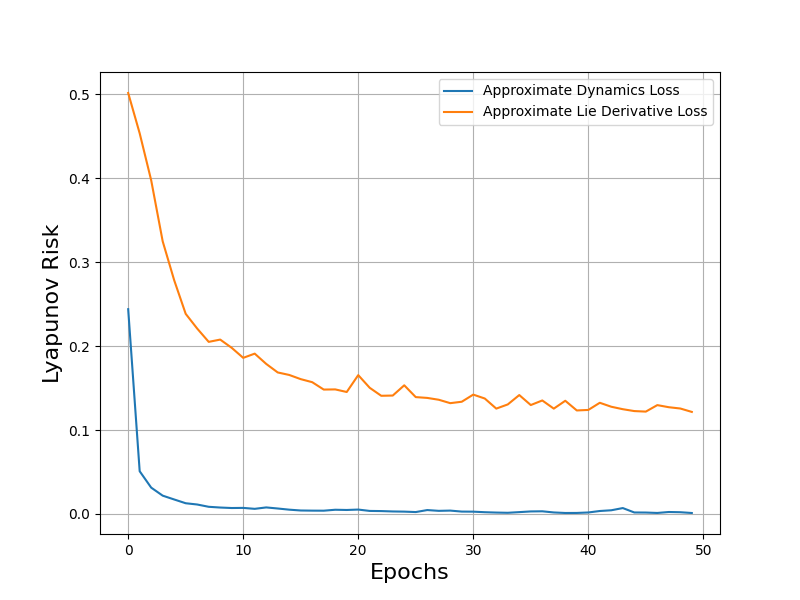
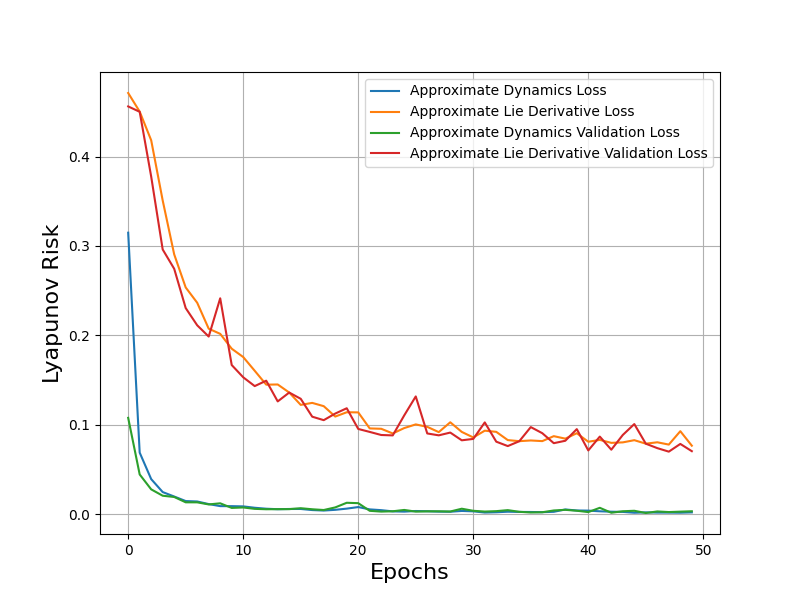
added validation code and initial falsification class

diff --git a/train_model.py b/train_model.py
@@ -4,18 +4,22 @@ from model import NeuralLyapunovController
 from loss import LyapunovRisk
 from matplotlib import pyplot as plt
 from lyapunov_dataset import LyapunovDataset
-from torch.utils.data import DataLoader
+from torch.utils.data import DataLoader, random_split
 from tqdm import tqdm, trange
+from falsifier import Falsifier
+from kstar_env import KSTAREnv
 
 class Trainer():
     def __init__(self, model, lr, optimizer, loss_fn, loss_mode,
-                 seed=42):
+                 falsifier=None, seed=42):
         self.model = model
         self.lr = lr
         self.optimizer = optimizer
         self.lyapunov_loss = loss_fn
         self.loss_mode = loss_mode
         self.seed = seed
+        # falsifier optional
+        self.falsifier = falsifier
 
     def get_lie_derivative(self, X, V_candidate, f):
         '''
@@ -43,22 +47,43 @@ class Trainer():
         lie_derivative = torch.diagonal((d_x @ f.t()), 0)
         return lie_derivative
     
-    def get_approx_lie_derivative(self, V_candidate, V_candidate_next, dt=0.1):
+    @staticmethod
+    def get_approx_lie_derivative(V_candidate, V_candidate_next, dt=0.1):
         '''
         Calculates L_V = ∑∂V/∂xᵢ*fᵢ by forward finite difference
                     L_V = (V' - V) / dt
         '''
         return (V_candidate_next - V_candidate) / dt
 
-    def get_dataloader(self, dataset, batch_size):
-        train_loader = DataLoader(dataset, batch_size=batch_size,
+    @staticmethod
+    def approx_f_value(X, X_prime, dt=0.1):
+        # Approximate f value with S, a, S'
+        y = (X_prime - X) / dt
+        return y
+
+    def get_dataloader(self, dataset, batch_size, val_split=0.2):
+        num_trajectories = len(dataset)
+        num_validation = int(num_trajectories * val_split)
+        num_train = num_trajectories - num_validation
+
+        # random split of train and validation data based off seed.
+        train_data, validation_data = random_split(dataset, [num_train, num_validation],
+                                                generator=torch.Generator().manual_seed(self.seed))
+        
+        train_loader = DataLoader(train_data, batch_size=min(num_train, batch_size),
                                 shuffle=True, generator=torch.Generator().manual_seed(self.seed))
-        return train_loader
+        validation_loader = DataLoader(validation_data, batch_size=min(num_train, batch_size),
+                                shuffle=True, generator=torch.Generator().manual_seed(self.seed))
+        return train_loader, validation_loader
     
-    def _train(self, train_loader, x_0):
+    def _train(self, train_loader, x_0, epoch=0):
         self.model.train()
         total_loss = 0.
         count = 0.
+        valid_solution = False
+        # condition for running falsifier
+        run_falsifier = (self.falsifier is not None) and epoch % (self.falsifier.get_frequency()) == 0
+
         t_loader = tqdm(enumerate(train_loader), desc='train', total=len(train_loader), leave=False)
         for batch_idx, data in t_loader:
             x, pi, x_prime = data
@@ -74,61 +99,107 @@ class Trainer():
             # get loss
             if self.loss_mode == 'approx_dynamics':
                 # compute approximate f_dot and compare to true f
-                f_approx = approx_f_value(x, x_prime, dt=0.1)
-                L_V_approx = self.get_lie_derivative(x, V_candidate, f_approx)
-                loss = self.lyapunov_loss(V_candidate, L_V_approx, V_X0)
+                f_approx = Trainer.approx_f_value(x, x_prime, dt=0.1)
+                L_V = self.get_lie_derivative(x, V_candidate, f_approx)
 
             elif self.loss_mode == 'approx_lie':
                 # compute approximate f_dot and compare to true f
                 V_candidate_prime, u_prime = self.model(x_prime)
-                L_V_approx = self.get_approx_lie_derivative(V_candidate, V_candidate_prime, dt=0.1)
-                loss = self.lyapunov_loss(V_candidate, L_V_approx, V_X0)
+                L_V= Trainer.get_approx_lie_derivative(V_candidate, V_candidate_prime, dt=0.1)
+            
+            loss = self.lyapunov_loss(V_candidate, L_V, V_X0)
 
             loss.backward()
             self.optimizer.step()
             total_loss += loss.item()
             count += 1
             t_loader.set_postfix(loss=loss.item())
+
+            #### Falsifier ####
+            if run_falsifier:
+                counterexamples = self.falsifier.check_lyapunov(x, V_candidate, L_V)
+                if (not (counterexamples is None)): 
+                    pass
+                    # TODO: add to train_loader
+                    # x = self.falsifier.add_counterexamples(x, counterexamples)
+                else:
+                    valid_solution = True
+                    break
+
         # return avg loss over all runs
+        return total_loss / count, valid_solution
+
+    def _val(self, val_loader, x_0):
+        self.model.eval()
+        total_loss = 0.
+        count = 0.
+        v_loader = tqdm(enumerate(val_loader), desc='val', total=len(val_loader), leave=False)
+        for batch_idx, data in v_loader:
+            x, pi, x_prime = data
+            # get lyapunov function and input from model
+            V_candidate, u = self.model(x)
+            # get lyapunov function evaluated at equilibrium point
+            V_X0, u_X0 = self.model(x_0)
+
+            # get loss
+            if self.loss_mode == 'approx_dynamics':
+                # compute approximate f_dot and compare to true f
+                f_approx = Trainer.approx_f_value(x, x_prime, dt=0.1)
+                L_V = self.get_lie_derivative(x, V_candidate, f_approx)
+
+            elif self.loss_mode == 'approx_lie':
+                # compute approximate f_dot and compare to true f
+                V_candidate_prime, u_prime = self.model(x_prime)
+                L_V = Trainer.get_approx_lie_derivative(V_candidate, V_candidate_prime, dt=0.1)
+            
+            loss = self.lyapunov_loss(V_candidate, L_V, V_X0)
+            total_loss += loss.item()
+            count += 1
+            v_loader.set_postfix(loss=loss.item())
+
+        # return avg validation loss over all runs
         return total_loss / count
-    
-    def train(self, dataset, x_0, epochs=2000, batch_size=64, verbose=False, every_n_epochs=10):
-        valid = False
+
+    def train(self, dataset, x_0, epochs=2000, batch_size=64):
         loss_list = []
-        train_loader = self.get_dataloader(dataset, batch_size=batch_size)
+        val_loss_list = []
+        train_loader, val_loader = self.get_dataloader(dataset, batch_size=batch_size, val_split=0.2)
         pbar = trange(epochs, desc='progress')
         for epoch in pbar:
-            if valid == True:
-                # TODO Update valid once falsifier is used
-                if verbose:
-                    print('Found valid solution.')
+            loss, valid_solution = self._train(train_loader, x_0, epoch=epoch)
+            val_loss = self._val(val_loader, x_0)
+
+            if valid_solution:
+                print("Valid solution found!")
                 break
-            loss = self._train(train_loader, x_0)
 
             loss_list.append(loss)
-            if verbose and (epoch+1 % every_n_epochs == 0):
-                print('Epoch:\t{}\tLyapunov Risk: {:.4f}'.format(epoch+1, loss))
-
-            # TODO Add in falsifier here
-            # add counterexamples
-            metrics = {'loss' : loss}
+            val_loss_list.append(val_loss)
+            
+            #### Adding metrics to tqdm bar ####
+            if self.falsifier is None:
+                metrics = {'loss' : loss, 'val_loss' : val_loss}
+            else:
+                metrics = {'loss' : loss, 'val_loss' : val_loss,
+                           'total_counterexamples' : self.falsifier.counterexamples_added}
             pbar.set_postfix(metrics)
-        return loss_list
+
+        return loss_list, val_loss_list
     
 def load_model(d_in=39, n_hidden=16, d_out=9):
     controller = NeuralLyapunovController(d_in, n_hidden, d_out)
     return controller
 
-def approx_f_value(X, X_prime, dt=0.1):
-    # Approximate f value with S, a, S'
-    y = (X_prime - X) / dt
-    return y
-
-def plot_losses(approx_dynamics_loss, approx_lie_loss):
+def plot_losses(approx_dynamics_loss, approx_val_dynamics_loss,
+                approx_lie_loss, approx_val_lie_loss):
     fig = plt.figure(figsize=(8, 6))
-    x = range(len(approx_dynamics_loss))
-    plt.plot(x, approx_dynamics_loss, label='Approximate Dynamics Loss')
-    plt.plot(x, approx_lie_loss, label='Approximate Lie Derivative Loss')
+    x_d = range(len(approx_dynamics_loss))
+    x_l = range(len(approx_lie_loss))
+    plt.plot(x_d, approx_dynamics_loss, label='Approximate Dynamics Loss')
+    plt.plot(x_l, approx_lie_loss, label='Approximate Lie Derivative Loss')
+
+    plt.plot(x_d, approx_val_dynamics_loss, label='Approximate Dynamics Validation Loss')
+    plt.plot(x_l, approx_val_lie_loss, label='Approximate Lie Derivative Validation Loss')
 
     plt.ylabel('Lyapunov Risk', size=16)
     plt.xlabel('Epochs', size=16)
@@ -137,6 +208,7 @@ def plot_losses(approx_dynamics_loss, approx_lie_loss):
     plt.savefig('loss_comparison.png')
     
 if __name__ == '__main__':
+    run_falsifier = False
     lr = 0.01
     batch_size=500
     epochs=50
@@ -144,7 +216,14 @@ if __name__ == '__main__':
 
     state_dim = 39
     action_dim = 9
-    
+
+    ### Load falsifier and KSTAR environment
+    if run_falsifier:
+        env = KSTAREnv()
+        falsifier = Falsifier(env.low_state, env.high_state, epsilon=0., scale=0.05,
+                            frequency=150, num_samples=2, env=env)
+    else:
+        falsifier = None
     ### Load training data ###
     print('Loading dataset...')
     lyapunov_dataset = LyapunovDataset(filename='trajectories.npz', 
@@ -158,17 +237,19 @@ if __name__ == '__main__':
 
     model_1 = load_model(d_in, n_hidden, d_out)
     optimizer_1 = torch.optim.Adam(model_1.parameters(), lr=lr)
-    trainer_1 = Trainer(model_1, lr, optimizer_1, loss_fn, loss_mode='approx_dynamics')
+    trainer_1 = Trainer(model_1, lr, optimizer_1, loss_fn, loss_mode='approx_dynamics', falsifier=falsifier)
     # calculate lie derivative when system dynamics are unknown (this model compares the approximate f to the ground truth)
-    approx_dynamics_loss = trainer_1.train(lyapunov_dataset, X_0, epochs=epochs,
-                                           batch_size=batch_size, verbose=True)
+    approx_dynamics_loss, approx_val_dynamics_loss = trainer_1.train(lyapunov_dataset, X_0, 
+                                                                     epochs=epochs, batch_size=batch_size)
 
     print("Training with approx lie derivative loss...")
     model_2 = load_model()
     optimizer_2 = torch.optim.Adam(model_2.parameters(), lr=lr)
-    trainer_2 = Trainer(model_2, lr, optimizer_2, loss_fn, loss_mode='approx_lie')
+    trainer_2 = Trainer(model_2, lr, optimizer_2, loss_fn, loss_mode='approx_lie', falsifier=falsifier)
     # calculate lie derivative when system dynamics are unknown (this model compares the approximate f to the ground truth)
-    approx_lie_loss = trainer_2.train(lyapunov_dataset, X_0, epochs=epochs,
-                                      batch_size=batch_size, verbose=True)
+    approx_lie_loss, approx_val_lie_loss = trainer_2.train(lyapunov_dataset, X_0,
+                                                           epochs=epochs, batch_size=batch_size)
     
-    plot_losses(approx_dynamics_loss, approx_lie_loss)
+    plot_losses(approx_dynamics_loss, approx_val_dynamics_loss,
+                approx_lie_loss, approx_val_lie_loss)
+                

diff --git a/falsifier.py b/falsifier.py
@@ -1,0 +1,91 @@
+import torch
+
+class Falsifier():
+    def __init__(self, lower_bound, upper_bound, epsilon=0., scale=0.1, frequency=100, num_samples=10, env=None):
+        self.epsilon = epsilon
+        self.counterexamples_added = 0
+        self.lower_bound = torch.Tensor(lower_bound)
+        self.upper_bound = torch.Tensor(upper_bound)
+        self.scale = scale
+        self.frequency = frequency
+        self.num_samples = num_samples
+        # AI Gym environment. Used to get min and max state values and optionally get next_state
+        self.env = env
+
+
+    def get_frequency(self):
+        return self.frequency
+
+    @torch.no_grad
+    def check_lyapunov(self, X, V_candidate, L_V):    
+        '''
+        Checks if the lyapunov conditions are violated for any sample. 
+        Data points that are unsatisfiable will be sampled and added 
+        '''
+        N = X.shape[0]
+
+        # Ensure lyapunov function and lie derivative are 1D tensors
+        if V_candidate.dim() != 1:
+            V_candidate = V_candidate.reshape(N)
+        if L_V.dim() != 1:
+            L_V = L_V.reshape(N)
+        
+        lyapunov_mask = (V_candidate < 0.)
+        lie_mask = (L_V > self.epsilon)
+
+        # bitwise or for falsification conditions
+        union = lyapunov_mask.logical_or(lie_mask)
+
+        # get batch indices that violate the lyapunov conditions
+        indices = torch.nonzero(union).squeeze()
+        # check num elements > 0
+        if indices.numel() > 0:
+            return  X[indices].reshape(indices.numel(), self.lower_bound.shape[0])
+        else:
+            return None
+    
+    @torch.no_grad
+    def add_counterexamples(self, X, counterexamples):
+        '''
+        Take counter examples and sample points around them.
+        X: current training data
+        counterexamples: all new examples from training data that don't satisfy the lyapunov conditions
+        '''        
+        self.counterexamples_added += self.num_samples
+        for i in range(counterexamples.shape[0]):
+            samples = torch.empty(self.num_samples, 0)
+            counterexample = counterexamples[i]
+            for j in range(self.upper_bound.shape[0]):
+                lb = self.lower_bound[j]
+                ub = self.upper_bound[j]
+                value = counterexample[j]
+                # Determine the min and max values for each feature in the chosen counterexamples
+                min_value = torch.max(lb, value - self.scale * (value - lb))
+                max_value = torch.min(ub, value + self.scale * (ub - value))
+                
+                sample = torch.Tensor(self.num_samples, 1).uniform_(min_value, max_value)
+                samples = torch.cat([samples, sample], dim=1)
+            X = torch.cat((X, samples), dim=0)
+        return X
+    
+if __name__ == '__main__':
+    # small test for falsifier
+    falsifier = Falsifier(lower_bound=[-1., -0.5], upper_bound=[1., 0.5])
+    x = torch.Tensor(5, 1).uniform_(-1., 1.)
+    x = torch.cat((x, torch.Tensor(5, 1).uniform_(-0.5, 0.5)), dim=1)
+
+    # Fake lyapunov funcions
+    V = torch.ones(size=(5,1))
+    V[3, 0] = -0.5
+    V[2, 0] = -0.1
+
+    L_V = -torch.ones(size=(5,1))
+    L_V[1, 0] = 2.5
+
+    counterexamples = falsifier.check_lyapunov(x, V, L_V)
+    assert(counterexamples.size(0) == 3)
+    num_samples=2
+    x_new = falsifier.add_counterexamples(x, counterexamples, N=num_samples)
+    assert(x_new.size(0) == num_samples*counterexamples.size(0) + x.size(0))
+    print(x)
+    print(x_new)
